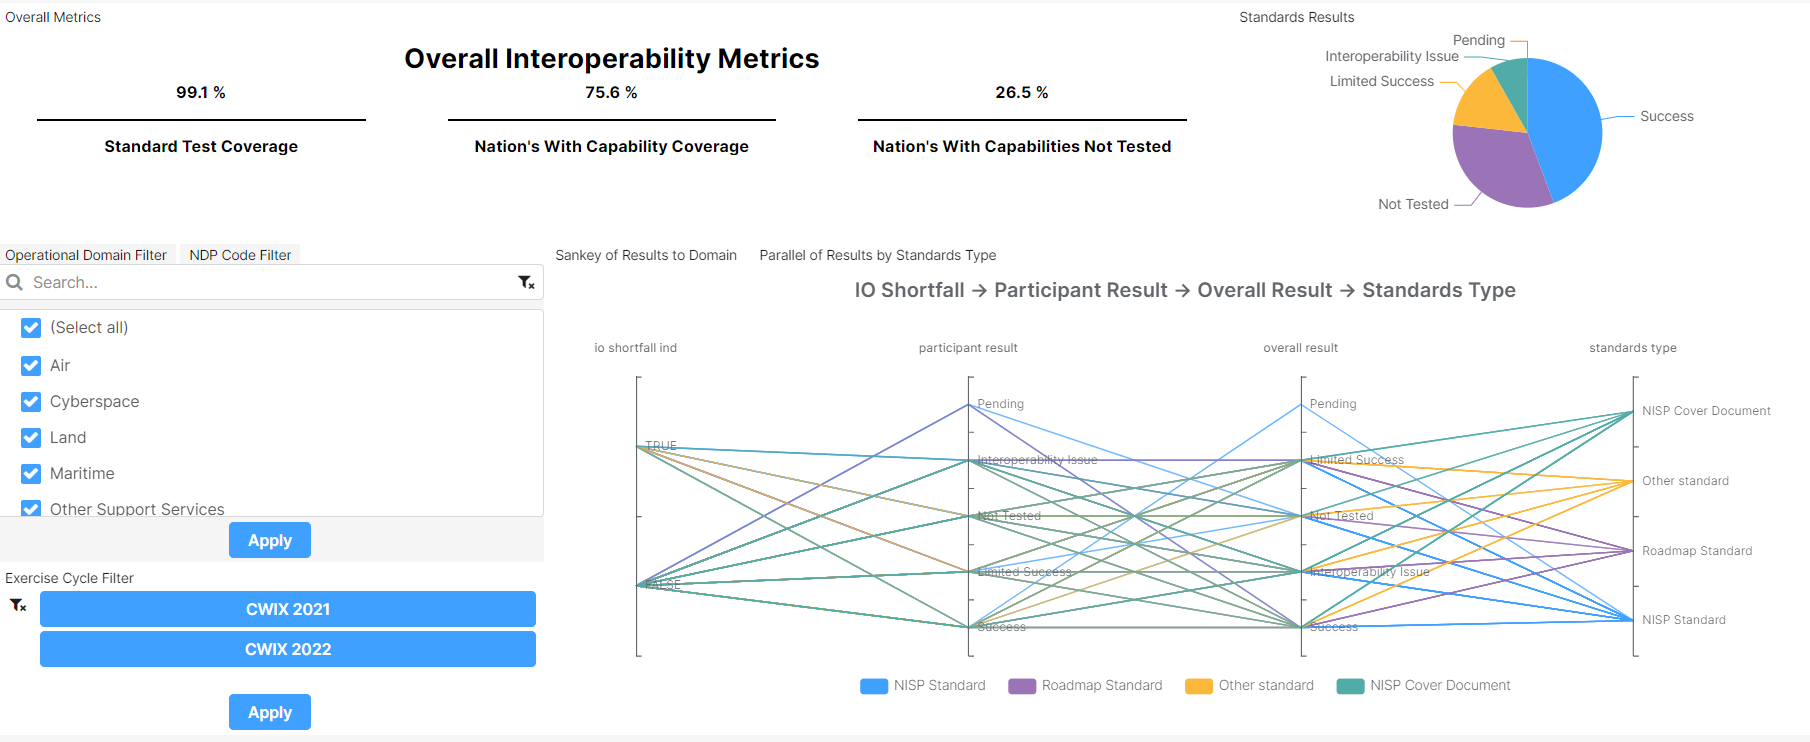
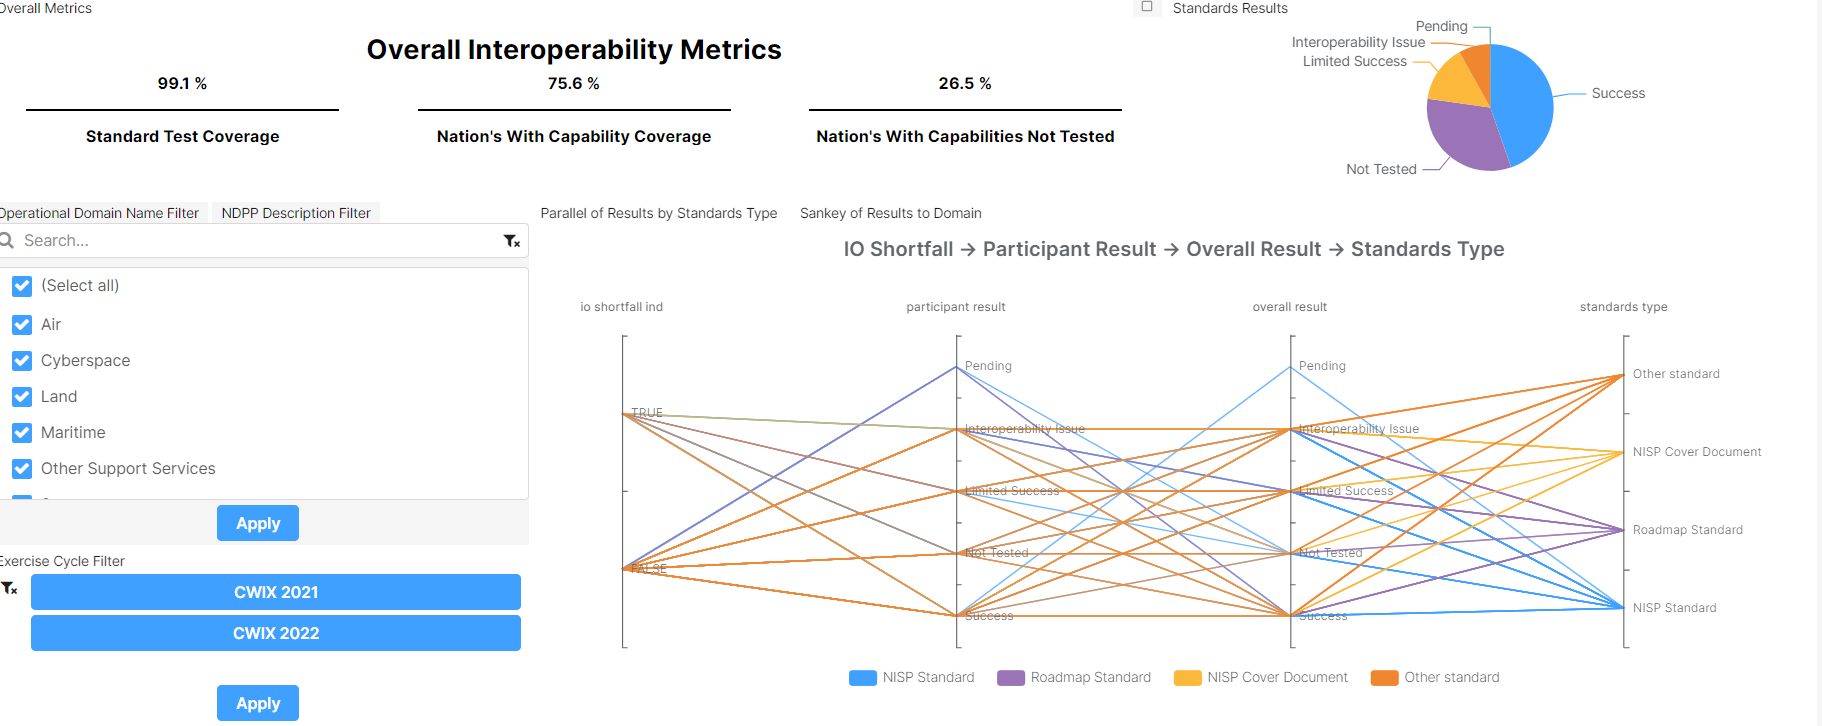
Updated NDPP Information for Interoperability Metrics dashboard

diff --git a/insight/Interoperability Metrics/README.md b/insight/Interoperability Metrics/README.md
@@ -10,10 +10,13 @@ At the top of the insight is a static KPI displaying three metrics to report the
 - *Nations with Capability Coverage*: The percent of nations with capabilities. This is calcualted by uniquely counting the number of nations tied to a capability, dividing that by the total unique count of nations, and multiplying by 100. The purpose of this metric is to report the coverage of nations being tracked and if an inquery needs to go to the nations without capabilities to ensure proper interoperabiilty coverage.
 - *Nations with Capabilities Not Tested*: The percent of nations with capbilities that have not been tested. This is calcualted by uniquely counting the number of nations tied to a capability that is not represented in the test participants table divided by the unique count of nations. Capabilities not tracked in there are assumed to have not been tested. If these are fielded or near fielded capabilities, this could be a risk and they should be incorporated in the text event cycle. 
 
-The rest of the insight is made up of dynamic KPIs that the user can filter on to show more specific information. The user has the ability to filter on Event Cycle, Operational Domains, and NDP Codes. The filters are located in the bottom left. Toggle through the tabs on top of the filters to switch between Operational Domains and NDP Codes. The dynamic charts:
+The rest of the insight is made up of dynamic KPIs that the user can filter on to show more specific information. The user has the ability to filter on *Event Cycle*, *Operational Domains*, and *NDPP Descriptions*. The filters are located in the bottom left. Toggle through the tabs on top of the filters to switch between Operational Domains and NDPP Descriptions. The filter for *Event Cycle* can only be filterd to a year at a time and is defaulted to the most recent year. Toggle the years in the filter to change the dynamic charts. The NDPP did not have a direct link to the testcases. To bring in these values, the NDPP Description characters were probabilistically matched to the focus area name characters. Once that was acheived, this mapping was saved as a table to a database and through joins was mapped to the testcases. For more information on the comparison between NDPP and focus area please refer to the[ NDPP Strategic Alliance README](https://github.com/tidehackathon/team-io-moose-brigade/blob/main/insight/NDPP%20Strategic%20Alliance/README.md).
+
+The dynamic charts:
 
 - *Standards Results*: Pie in the upper right. Each wedge represts the percent of standards assicated with each overall result from a testcase. Overall results options: Success, Pending, Limited Success, Not Tested, or Interoperability Issue. 
-- *Parallel of Results to Standard Type*: The Parallel Coordinates Chart maps the IO Shortfall to the Participant Results to the Overall Results to the Standard Type. Using the filters, the user can determine with event cycle, domain, or NDP that have shortfalls, the impact to the participant results, and if it affected the overall result, and which type of standards they are. This can start to give the user an insight into the overall impact. 
-- *Sankey of Results to Domain*: The Sankey chart is tabbed behind the Parallel Coordinates. Click on the tabs to switch between. See below for what the insight looks like when the Sankey is chosen. The Sankey chart maps the IO Shortfall to the Overall Results to the Operational Domain. The thickness of the lines represents the unique count of standards that are mapped between the elements. For example, if you look at the picture below, when the mouse hovers on the uppermost bar between Overall Results and Operational Domain there were 1553 standards associated with that connection in the database. As with the Parallel Coordinates, using the filters can allow the user to investigate the number of standards in assocaiton with these elements to get a better understanding of the results from the testcases and how the operational domains or NDP may affected by shortfalls.
+- *Parallel of Results to Standard Type*: The Parallel Coordinates Chart maps the IO Shortfall to the Participant Results to the Overall Results to the Standard Type. Using the filters, the user can determine with event cycle, domain, or NDPP that have shortfalls, the impact to the participant results, and if it affected the overall result, and which type of standards they are. This can start to give the user an insight into the overall impact. 
+- *Sankey of Results to Domain*: The Sankey chart is tabbed behind the Parallel Coordinates. Click on the tabs to switch between. See below for what the insight looks like when the Sankey is chosen. The Sankey chart maps the IO Shortfall to the Overall Results to the Operational Domain. The thickness of the lines represents the unique count of standards that are mapped between the elements. For example, if you look at the picture below, when the mouse hovers on the uppermost bar between Overall Results and Operational Domain there were 1553 standards associated with that connection in the database. As with the Parallel Coordinates, using the filters can allow the user to investigate the number of standards in assocaiton with these elements to get a better understanding of the results from the testcases and how the operational domains or NDPP may affected by shortfalls.
 
 ![Alt](InteroperabilityMetricsSankey.png "Interoperability Metrics Insight - Sankey Chart")
+
